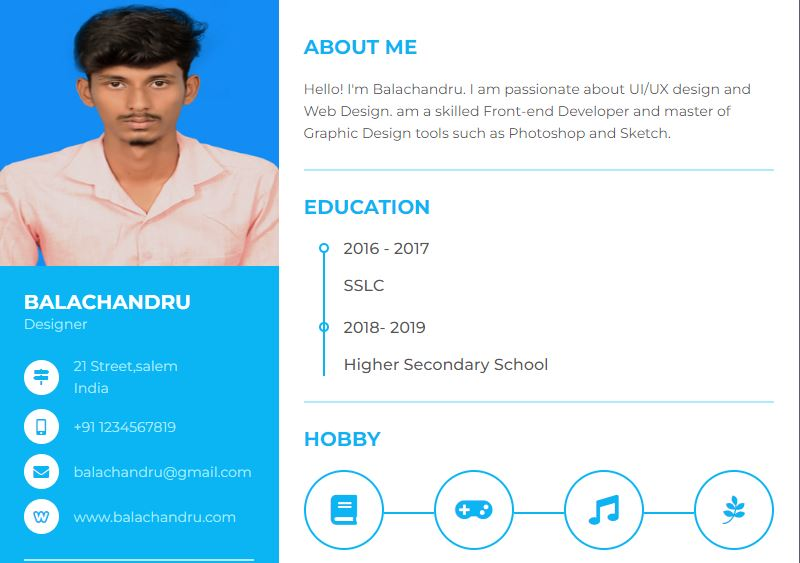
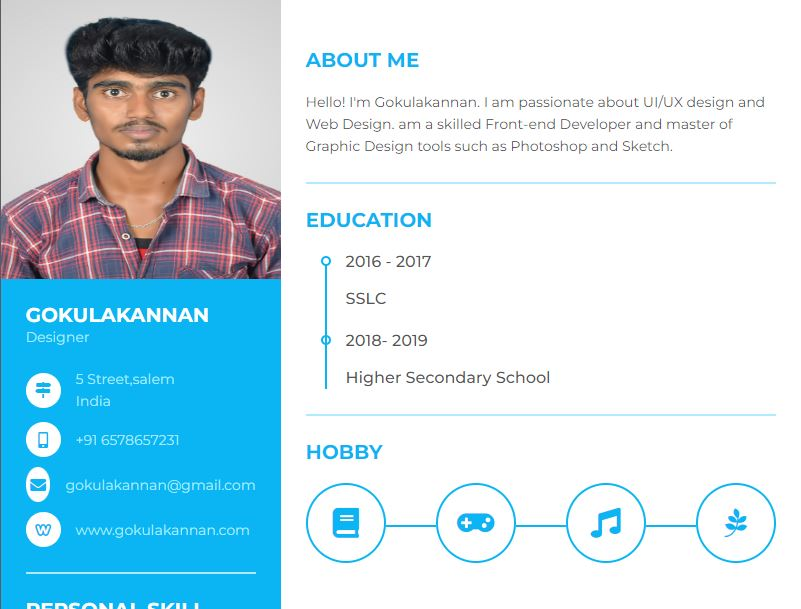
Add files via upload

Changed region(s): [[0.0, 0.0, 0.9688, 1.0], [0.5625, 0.9663, 0.625, 0.9964]]

diff --git a/index.html b/index.html
@@ -8,7 +8,7 @@
      <div class="resume_content">
        <div class="resume_item resume_info">
          <div class="title">
-           <p class="bold">Balachandru</p>
+           <p class="bold">Gokulakannan</p>
            <p class="regular">Designer</p>
          </div>
          <ul>
@@ -17,7 +17,7 @@
                <i class="fas fa-map-signs"></i>
              </div>
              <div class="data">
-               21 Street,salem<br />India
+               5 Street,salem<br />India
              </div>
            </li>
            <li>
@@ -25,7 +25,7 @@
                <i class="fas fa-mobile-alt"></i>
              </div>
              <div class="data">
-               +91 1234567819
+               +91 6578657231
              </div>
            </li>
            <li>
@@ -33,7 +33,7 @@
                <i class="fas fa-envelope"></i>
              </div>
              <div class="data">
-               balachandru@gmail.com
+               gokulakannan@gmail.com
              </div>
            </li>
            <li>
@@ -41,7 +41,7 @@
                <i class="fab fa-weebly"></i>
              </div>
              <div class="data">
-               www.balachandru.com
+               www.gokulakannan.com
              </div>
            </li>
          </ul>
@@ -104,7 +104,7 @@
              </div>
              <div class="data">
                <p class="semi-bold">Facebook</p>
-               <p>balachandru@facebook</p>
+               <p>gokulakannan@facebook</p>
              </div>
            </li>
            <li>
@@ -113,7 +113,7 @@
              </div>
              <div class="data">
                <p class="semi-bold">Twitter</p>
-               <p>balachandru@twitter</p>
+               <p>gokulakannan@twitter</p>
              </div>
            </li>
            <li>
@@ -122,7 +122,7 @@
              </div>
              <div class="data">
                <p class="semi-bold">Youtube</p>
-               <p>balachandru@youtube</p>
+               <p>gokulakannan@youtube</p>
              </div>
            </li>
            <li>
@@ -131,7 +131,7 @@
              </div>
              <div class="data">
                <p class="semi-bold">Linkedin</p>
-               <p>balachandru@linkedin</p>
+               <p>gokulakannan@linkedin</p>
              </div>
            </li>
          </ul>
@@ -143,7 +143,7 @@
         <div class="title">
            <p class="bold">About me</p>
          </div>
-        <p>Hello! I'm Balachandru. I am passionate about UI/UX design and Web Design. am a skilled Front-end Developer and master of Graphic Design tools such as Photoshop and Sketch.</p>
+        <p>Hello! I'm Gokulakannan. I am passionate about UI/UX design and Web Design. am a skilled Front-end Developer and master of Graphic Design tools such as Photoshop and Sketch.</p>
     </div>
     <div class="resume_item resume_education">
       <div class="title">
